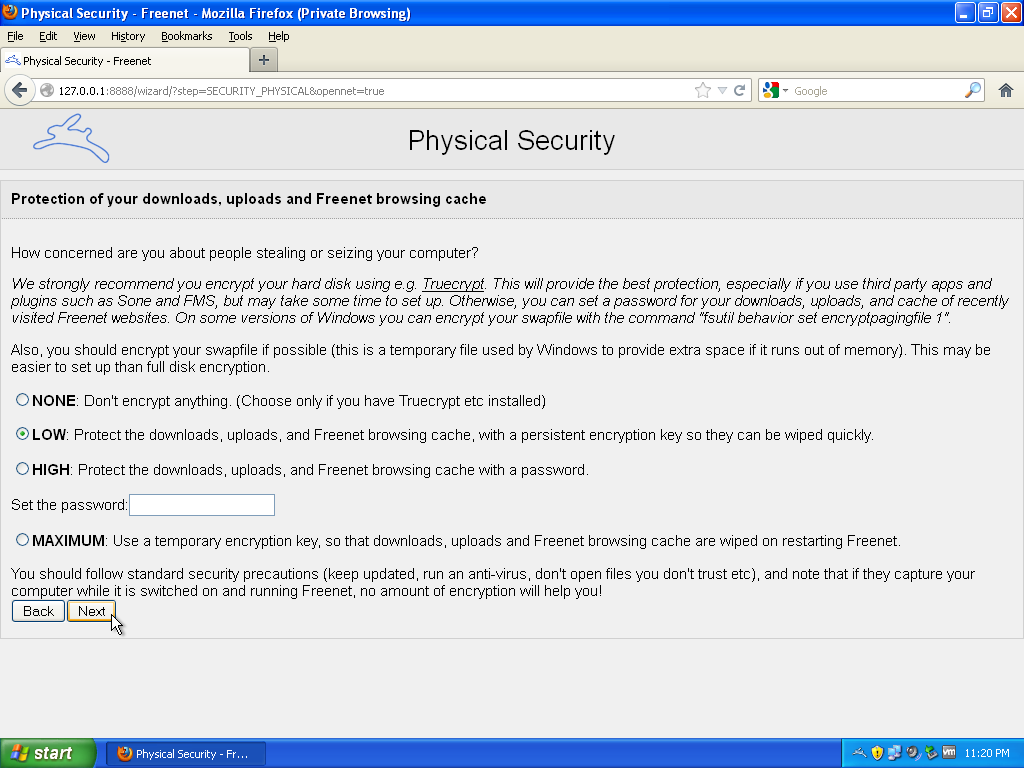
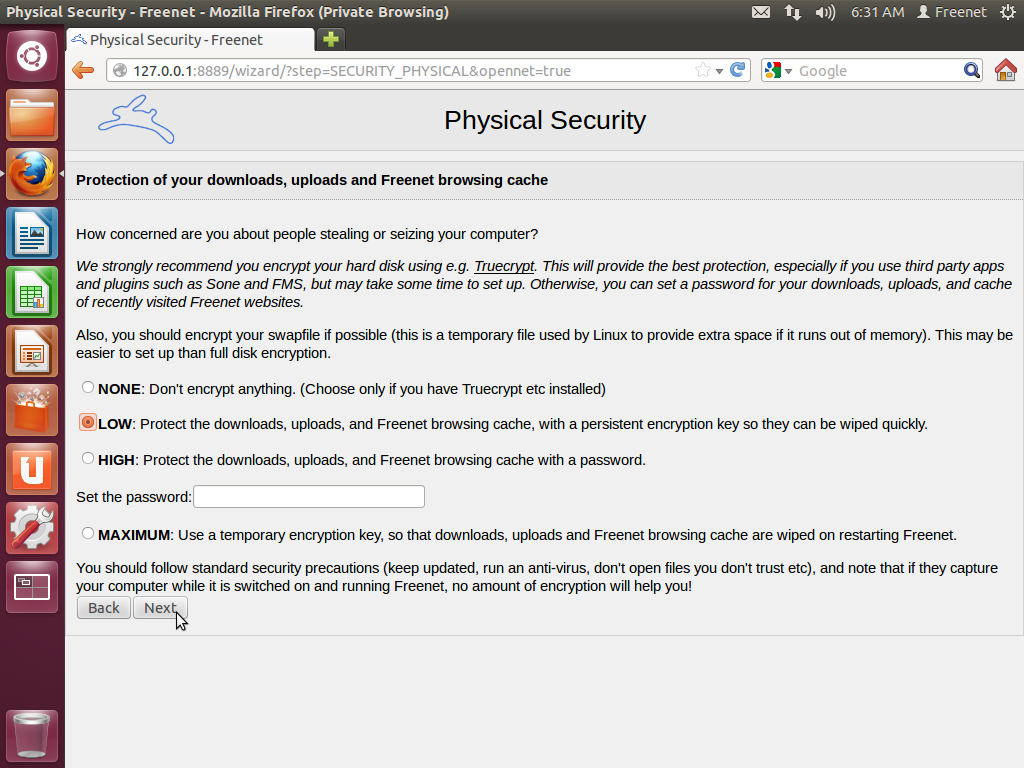
update Ubuntu screenshots

Changed region(s): [[0.0, 0.0, 1.0, 1.0]]

diff --git a/freenet-linux.html b/freenet-linux.html
@@ -132,26 +132,26 @@
 		<p><a href="images/01c/setup024.png"><img src="images/01c/setup024.png" width="640" height="480" alt="Step 12" /></a></p>
 	</li>
 	<li><p>Go to the "Core settings" page of the Configuration menu.</p>
-		<p><a href="images/01a/setup019.png"><img src="images/01a/setup019.png" width="640" height="480" alt="Step 13" /></a></p>
+		<p><a href="images/01c/setup025.png"><img src="images/01c/setup025.png" width="640" height="480" alt="Step 13" /></a></p>
 	</li>
 	<li><p>The Freenet installer picked a value of "Maximum memory usage" based on the amount of RAM on your computer. Frequently this value is too small to run the plugins that we will be installing in later steps. Make sure this value is at least 512 MB to make sure your node doesn't run out of memory. Symptoms that this value is too small include frequent node crashes and restarts.</p>
 		<p>If you don't see the WRAPPER section here and you've followed the instructions in this guide this is a bug that should be reported. As a workaround, search your computer for the file "wrapper.conf" and open it in a text editor. Find the line starting with "wrapper.java.maxmemory" and make sure the value is at least 512. Save the file and restart your node.</p>
-		<p><a href="images/01a/setup020.png"><img src="images/01a/setup020.png" width="640" height="480" alt="Step 14" /></a></p>
+		<p><a href="images/01c/setup026.png"><img src="images/01c/setup026.png" width="640" height="480" alt="Step 14" /></a></p>
 	</li>
 	<li><p>When you are done scroll to the bottom of the page and click 'Apply'.</p>
-		<p><a href="images/01a/setup021.png"><img src="images/01a/setup021.png" width="640" height="480" alt="Step 15" /></a></p>
+		<p><a href="images/01c/setup027.png"><img src="images/01c/setup027.png" width="640" height="480" alt="Step 15" /></a></p>
 	</li>
 	<li><p>Return to the node homepage to access the restart command.</p>
-		<p><a href="images/01a/setup022.png"><img src="images/01a/setup022.png" width="640" height="480" alt="Step 16" /></a></p>
+		<p><a href="images/01c/setup028.png"><img src="images/01c/setup028.png" width="640" height="480" alt="Step 16" /></a></p>
 	</li>
 	<li><p>Restart the node to update the max memory setting.</p>
-		<p><a href="images/01a/setup023.png"><img src="images/01a/setup023.png" width="640" height="480" alt="Step 17" /></a></p>
+		<p><a href="images/01c/setup029.png"><img src="images/01c/setup029.png" width="640" height="480" alt="Step 17" /></a></p>
 	</li>
 	<li><p>Confirm the restart command.</p>
-		<p><a href="images/01a/setup024.png"><img src="images/01a/setup024.png" width="640" height="480" alt="Step 18" /></a></p>
+		<p><a href="images/01c/setup030.png"><img src="images/01c/setup030.png" width="640" height="480" alt="Step 18" /></a></p>
 	</li>
 	<li><p>Wait until your node finishes reloading to continue to the next step.</p>
-		<p><a href="images/01a/setup025.png"><img src="images/01a/setup025.png" width="640" height="480" alt="Step 19" /></a></p>
+		<p><a href="images/01c/setup031.png"><img src="images/01c/setup031.png" width="640" height="480" alt="Step 19" /></a></p>
 	</li>
 </ol>
 
